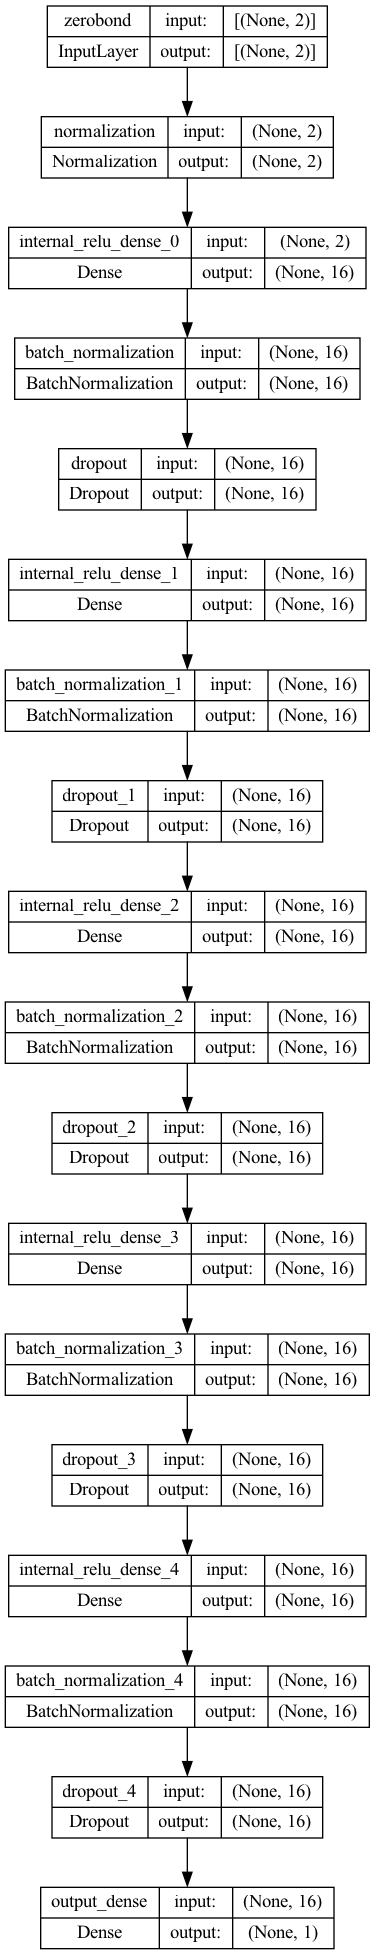
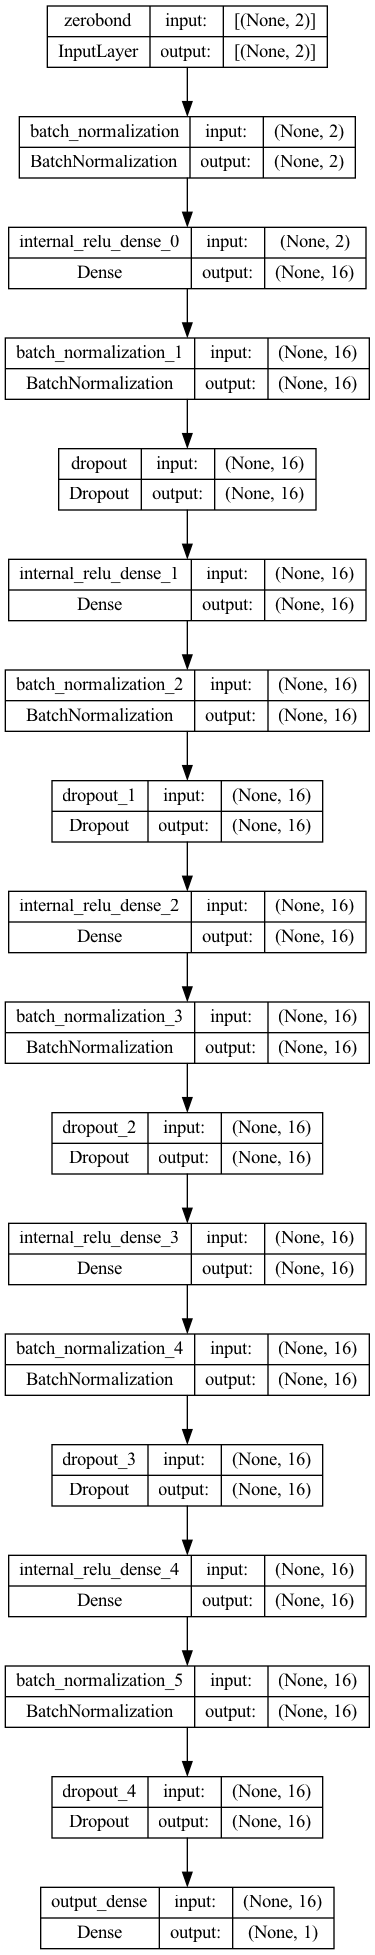
LGM: update

diff --git a/scripts/trainer/trainer.py b/scripts/trainer/trainer.py
@@ -1,5 +1,9 @@
 from typing import Any
+# LGM models
 from scripts.model.model_lgm_single_step import LGM_model_one_step
+# Simulator
+from utils.simulator.simulator import MCSimulation
+from utils.preprocess.preprocess import Preprocessor
 
 import numpy as np
 import pickle as pkl
@@ -11,6 +15,24 @@ import wandb
 from wandb.keras import WandbCallback
 
 from utils.utils.utils import CyclicLR
+
+def simulate(T, N_steps, sigma, nsims):
+    mcsimulator = MCSimulation(
+        T = T, 
+        N = N_steps, 
+        X0 = 0, 
+        sigma = sigma
+    )
+    # Training paths
+    mc_paths, W = mcsimulator.simulate(nsims)
+    mc_paths_transpose = mc_paths.T
+    df_x = Preprocessor.preprocess_paths(
+        T,
+        N_steps,
+        mc_paths_transpose,
+        nsims
+    )    
+    return df_x
 
 def trainer(
         epochs: int = 110,
@@ -24,7 +46,6 @@ def trainer(
         nsims: int,
         phi: Any,
         phi_str: str,
-        df_x: pd.DataFrame,
         report_to_wandb: bool = False,
         anneal_lr: bool = True
 ):
@@ -56,10 +77,6 @@ def trainer(
     size_of_the_batch = 100
     batch_size = size_of_the_batch * N_steps
     batches = int(np.floor(nsims * N_steps / batch_size))
-    # Data used as features
-    mc_paths_tranformed = df_x[['xt', 'dt']].values
-    x = mc_paths_tranformed.astype(np.float64)
-    delta_x = df_x._delta_x.values.astype(np.float64)
     # LGM model instance
     future_T = TM if TM is not None else T
     lgm_single_step = LGM_model_one_step(n_steps = N_steps, 
@@ -70,8 +87,7 @@ def trainer(
                                      batch_size = size_of_the_batch,
                                      phi = phi,
                                      name = phi_str,
-                                     report_to_wandb=report_to_wandb,
-                                     data = x
+                                     report_to_wandb=report_to_wandb
     )
     lgm_single_step.export_model_architecture()
     try:
@@ -95,6 +111,11 @@ def trainer(
     epoch = 0
     loss = np.infty
     while loss > 0.00001 and epoch < epochs:
+        df_x = simulate(T, N_steps, sigma, nsims)
+        # Data used as features
+        mc_paths_tranformed = df_x[['xt', 'dt']].values
+        x = mc_paths_tranformed.astype(np.float64)
+        delta_x = df_x._delta_x.values.astype(np.float64)
         print(f'{epoch}...', end = '')
         for batch in range(batches):
             start_time = time.time()

diff --git a/scripts/model/model_lgm_single_step.py b/scripts/model/model_lgm_single_step.py
@@ -19,7 +19,7 @@ from losses.losses import Losses
 
 # Wandb integration
 import wandb
-from wandb.keras import WandbCallback
+from wandb.keras import WandbCallback    
 
 class LGM_model_one_step(tf.keras.Model):
 
@@ -35,6 +35,7 @@ class LGM_model_one_step(tf.keras.Model):
         phi = None,
         future_T = None,
         report_to_wandb = False,
+        # First simulation
         data = None,
         **kwargs
     ):
@@ -70,10 +71,8 @@ class LGM_model_one_step(tf.keras.Model):
             shape = (2, ), 
             name = self.__name
         )
-        # Normalization layer
-        normalizer = tf.keras.layers.experimental.preprocessing.Normalization()
-        normalizer.adapt(data)
-        x = normalizer(input_tmp)
+        # Batch normalization layer
+        x = tf.keras.layers.BatchNormalization()(input_tmp)
         # Configuration read from:
         # --- name
         # --- T, strike time
@@ -138,6 +137,10 @@ class LGM_model_one_step(tf.keras.Model):
         self._verbose = verbose
         # Track with wandb
         self.__wandb = report_to_wandb
+        
+    @property
+    def normalizer(self):
+        return self.normalization
         
     def __create_masks(self):
         # Create masks
@@ -301,6 +304,7 @@ class LGM_model_one_step(tf.keras.Model):
                         'derivative_loss': self._loss_tracker_t2.result(),
                         'steps_error_loss': self._loss_tracker_t3.result(),
                         'overall_loss': self.loss_tracker.result(),
+                        # Overall derivatives
                         'grads_magnitude': tf.reduce_mean(self._grads),
                         'analytical_grads': tf.reduce_mean(analytical_grads),
                         'difference_strike': tf.reduce_mean(difference_strike),
@@ -399,6 +403,18 @@ class LGM_model_one_step(tf.keras.Model):
         Returns:
             _type_: _description_
         """
+        # Normalization
+        t_normalized = tf.expand_dims(
+            X[:, 1] / self.T,
+            axis = 1
+        )
+        X = tf.concat(
+            [
+                X[:, 0:1], 
+                t_normalized
+            ], 
+            axis = 1
+        )
         # Predict
         predictions = self._custom_model(X)
         if debug:

diff --git a/scripts/launcher.py b/scripts/launcher.py
@@ -4,8 +4,10 @@ import argparse
 import numpy as np
 import pandas as pd
 
-from utils.preprocess.preprocess import Preprocessor
+# Simulator
 from utils.simulator.simulator import MCSimulation
+from utils.preprocess.preprocess import Preprocessor
+
 from utils.utils.utils import (
     ZeroBond,
     IRS,
@@ -100,22 +102,7 @@ if __name__ == '__main__':
     print(f'\tN_steps: {N_steps}')
     print(f'\tX0: {X0}')
     print(f'\tSigma: {sigma}')
-    mcsimulator = MCSimulation(
-        T = T, 
-        N = N_steps, 
-        X0 = X0, 
-        sigma = sigma
-    )
-    # Training paths
-    mc_paths, W = mcsimulator.simulate(nsims)
-    mc_paths_transpose = mc_paths.T
-    df_x = Preprocessor.preprocess_paths(
-        T,
-        N_steps,
-        mc_paths_transpose,
-        nsims
-    )
-    print(f'Features shape: {df_x.shape}')
+
     # tf model training
     phi_str = args.phi
     # Imprime los valores de los argumentos
@@ -135,7 +122,6 @@ if __name__ == '__main__':
         nsims = nsims,
         phi = phi,
         phi_str = phi_str,
-        df_x = df_x,
         report_to_wandb = args.wandb
     )
     # Test
@@ -171,18 +157,6 @@ if __name__ == '__main__':
             df = df_x_test,
             model = model,
             test_name_file = test_name_file,
-            # TODO: Deprecate this
-            sigma_value = sigma,
-            TM = TM,
-            T = T,
-            report_to_wandb = args.wandb
-        )
-        # Sanity training
-        # Data used as features
-        tester.test(
-            df = df_x,
-            model = model,
-            test_name_file = train_name_file,
             # TODO: Deprecate this
             sigma_value = sigma,
             TM = TM,

diff --git a/scripts/utils/tester/tester.py b/scripts/utils/tester/tester.py
@@ -166,7 +166,7 @@ class SwaptionTester(Tester):
             sigma_value = sigma_value,
             predictions = df.lgm_single_step_V.values.astype(np.float64)
         )
-        df['V_normalized_001'] = df.apply(
+        '''df['V_normalized_001'] = df.apply(
             lambda x:
                 Swaption.Swaption_test(
                     0.01,
@@ -175,7 +175,7 @@ class SwaptionTester(Tester):
                     x.ct
                 ),
                 axis = 1
-        )
+        )'''
         
         folder = '/'.join(
             test_name_file.split('/')[:-1]
